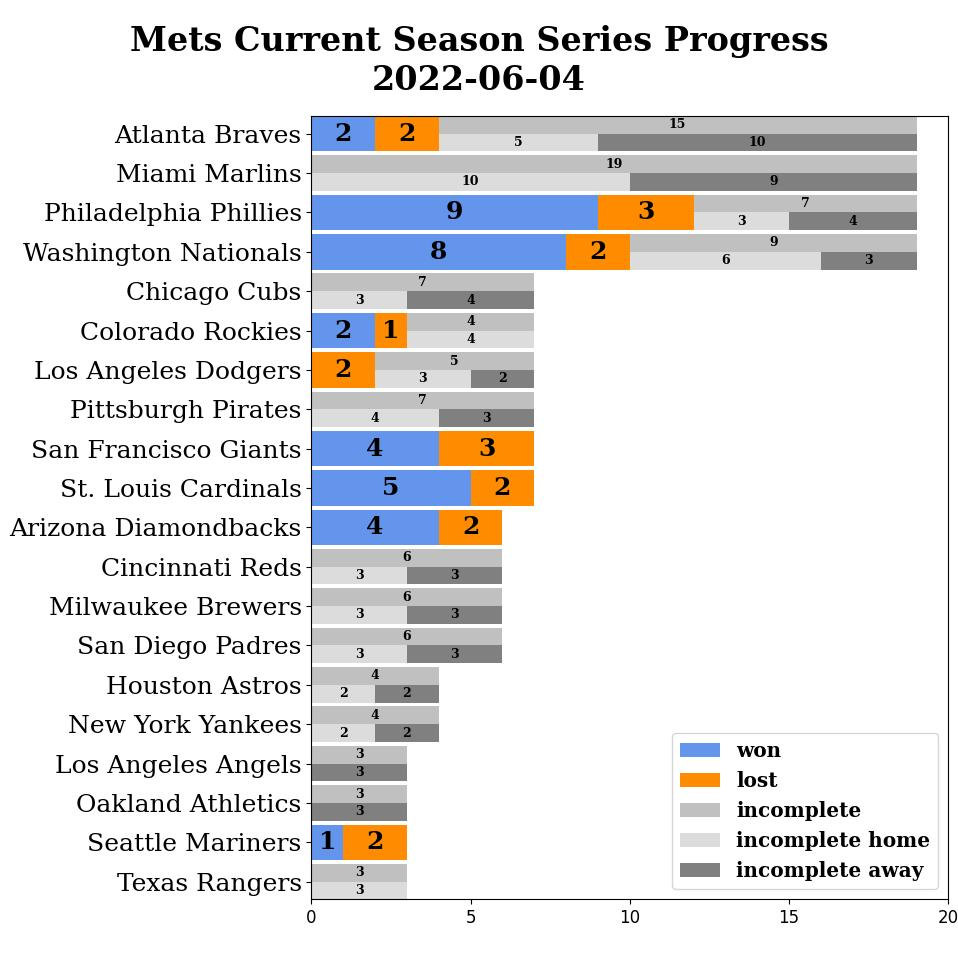
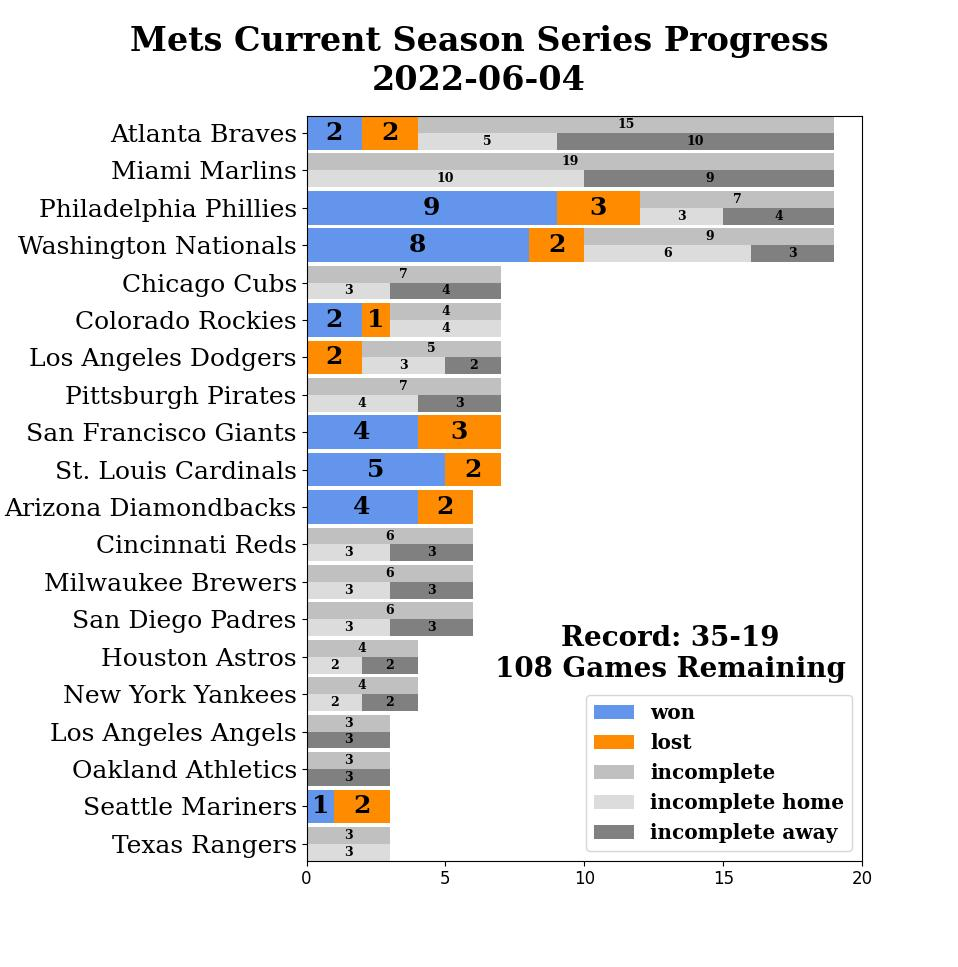
added mets record

diff --git a/mets-season-series/stackedbar.py b/mets-season-series/stackedbar.py
@@ -87,7 +87,7 @@ x = np.arange(len(team_set))
 
 wins       = ax.barh(x, df_teams['won'], w, label='won', color='cornflowerblue')
 losses     = ax.barh(x, df_teams['lost'], w, left=df_teams['won'], label='lost', color='darkorange')
-incomplete = ax.barh(x-w/4, df_teams['incomplete'], w/2, 
+incomp = ax.barh(x-w/4, df_teams['incomplete'], w/2, 
                     left=df_teams['won']+df_teams['lost'], label="incomplete total", color='silver')
 
 home       = ax.barh(x+w/4, df_teams['inc_home'], w/2, left=df_teams['won']+df_teams['lost'],
@@ -123,6 +123,8 @@ for index, row in df_teams.iterrows():
                 weight='bold', va='center', ha='center',
                 size=9, fontname='serif')
 
+fig.text(0.7, 0.3, f"Record: {won}-{lost}\n{incomplete} Games Remaining",
+         ha='center', weight='bold', size=20, fontname='serif')
 
 ax.set_ylim(min(x)-w/2, max(x)+w/2)
 ax.invert_yaxis()
